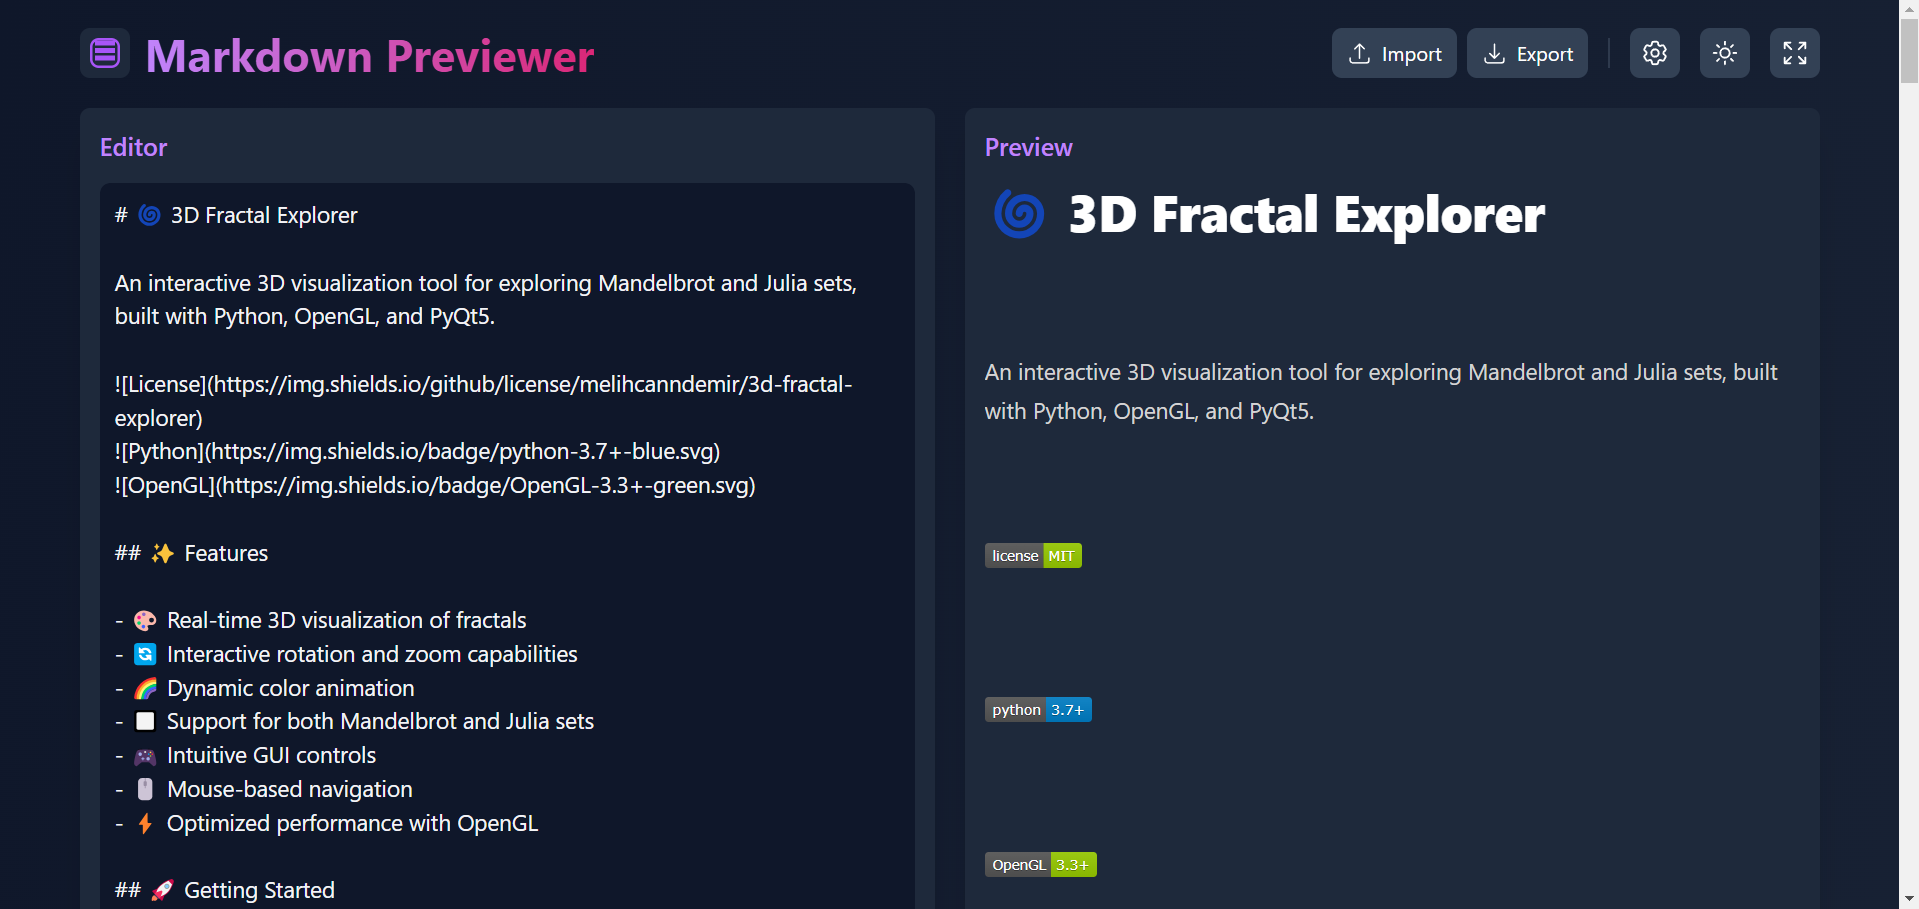
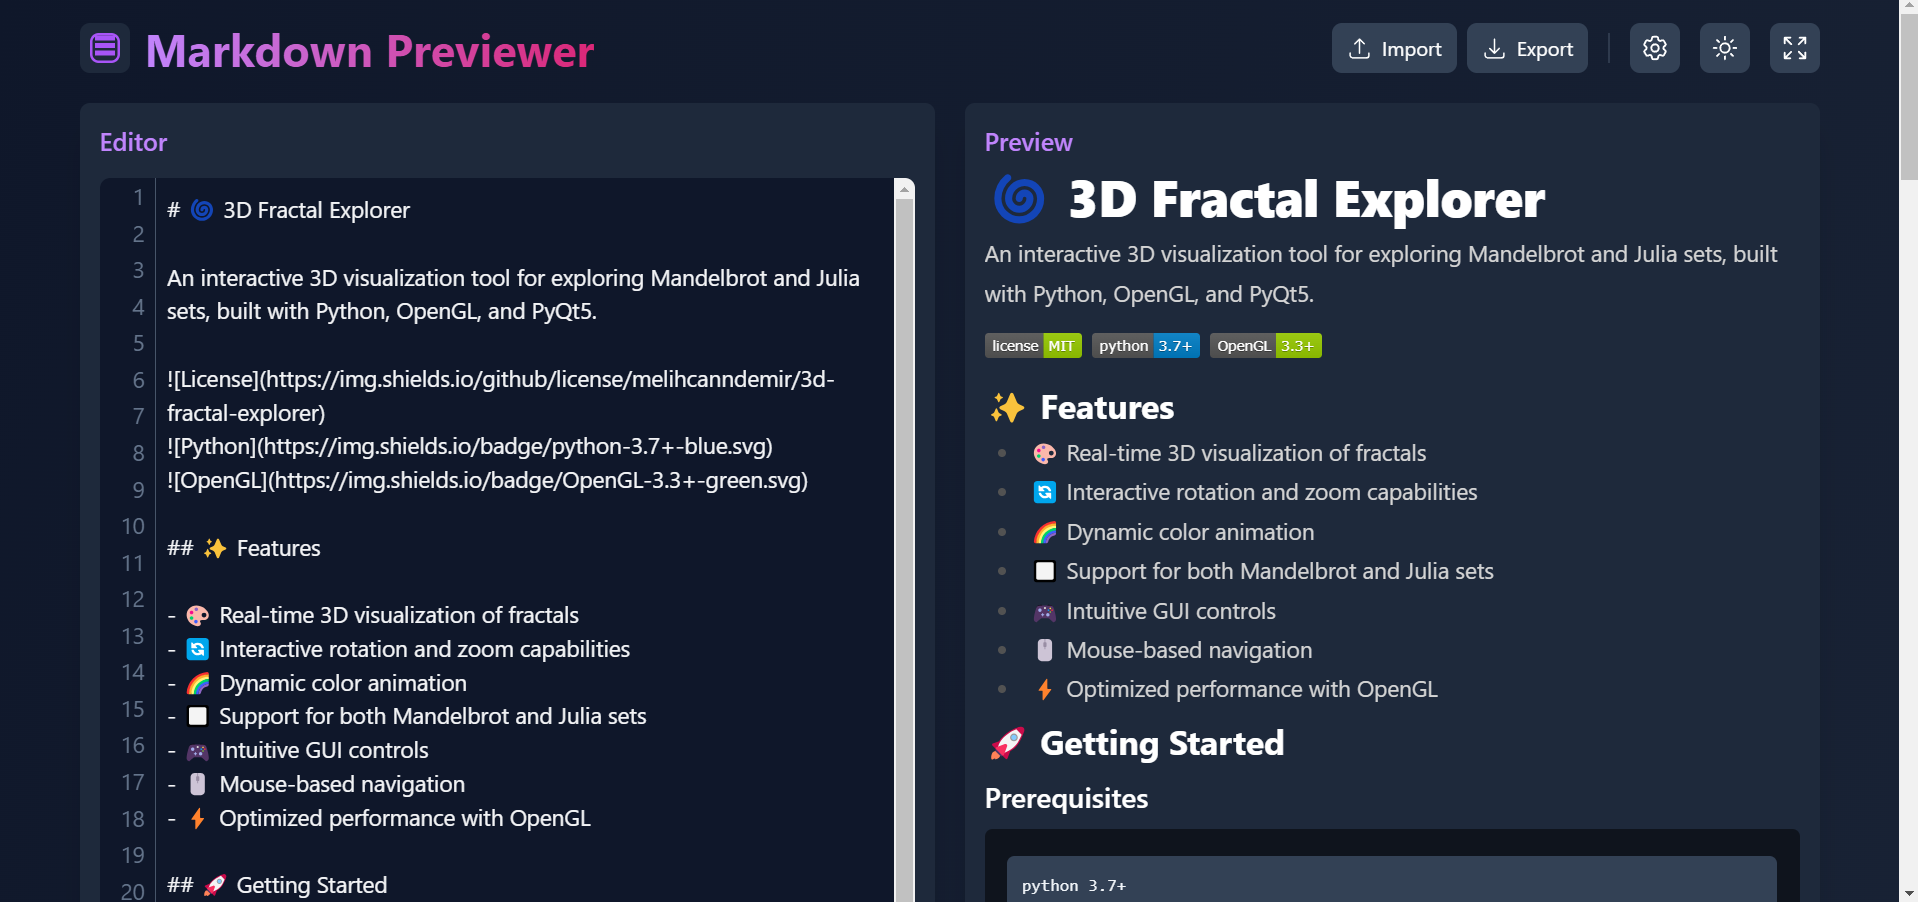
refactor(markdown): optimize preview spacing and improve badge alignments
- Reduce unnecessary margins and paddings in markdown preview
- Fix badge alignments to display inline like GitHub
- Add flex layout for elements containing images
- Improve overall spacing consistency

diff --git a/src/components/MarkdownPreview.jsx b/src/components/MarkdownPreview.jsx
@@ -7,42 +7,95 @@ function MarkdownPreview({ markdown, isDark, settings }) {
   return (
     <div
       className={`
-        rounded-lg
+        rounded-lg h-full
         ${isDark ? "bg-slate-800" : "bg-white border border-slate-200"}
-        p-4 shadow-xl
-        // Burada da overflow-auto ekleyebilirsin, istersen
+        p-4 shadow-xl flex flex-col
       `}
     >
       <h2
         className={`
-          text-xl font-semibold mb-4
+          text-xl font-semibold mb-2
           ${isDark ? "text-purple-400" : "text-purple-600"}
+          flex-shrink-0
         `}
       >
         Preview
       </h2>
 
-      {/* İçerik kapsayıcısı */}
       <div
         className={`
           prose
           max-w-none
+          flex-grow
+          overflow-auto
           ${isDark ? "prose-invert" : ""}
           ${PREVIEW_STYLES[settings.previewStyle]}
-          whitespace-pre-wrap
-          // İçerik uzayabilsin, kaydırılabilsin
-          overflow-auto
+          [&>*:first-child]:mt-0
+          [&>*:last-child]:mb-0
+          [&_p]:my-1
+          [&_h1]:mt-3 [&_h1]:mb-2
+          [&_h2]:mt-2 [&_h2]:mb-1
+          [&_h3]:mt-2 [&_h3]:mb-1
+          [&_ul]:my-1
+          [&_ol]:my-1
+          [&_li]:my-0
+          [&_pre]:my-2
+          [&_blockquote]:my-2
+          [&_table]:my-2
+          [&_hr]:my-2
+          [&_dl]:my-1
+          [&_p_img]:my-2
+          prose-headings:pb-0
+          prose-p:mb-1
+          prose-li:mt-0 prose-li:mb-0
+          prose-blockquote:my-2
+          prose-hr:my-2
+          prose-table:my-2
+          prose-pre:my-2
+          prose-code:my-0
+          [&_p:has(img)]:inline-flex
+          [&_p:has(img)]:gap-2
+          [&_p:has(img)]:flex-wrap
         `}
         style={{
           fontSize: FONT_SIZES[settings.fontSize],
-          // Çok büyük içeriklerde kısmen ekrana sığması için maxHeight kullanabilirsin
-          // maxHeight: "80vh"
         }}
       >
         <ReactMarkdown
           remarkPlugins={[remarkGfm]}
           components={{
-            // Kod bloklarına özel bir render ekliyoruz
+            // Başlıklar için özel bileşen
+            h1: ({ node, ...props }) => (
+              <h1 className="mt-3 mb-2" {...props} />
+            ),
+            h2: ({ node, ...props }) => (
+              <h2 className="mt-2 mb-1" {...props} />
+            ),
+            h3: ({ node, ...props }) => (
+              <h3 className="mt-2 mb-1" {...props} />
+            ),
+            // Paragraflar için özel bileşen
+            p: ({ node, children, ...props }) => {
+              // Eğer içerisinde img varsa
+              const hasImage = node?.children?.some(child => child.type === 'image');
+              return (
+                <p className={`my-1 ${hasImage ? 'inline-flex gap-2 flex-wrap' : ''}`} {...props}>
+                  {children}
+                </p>
+              );
+            },
+            // Listeler için özel bileşen
+            ul: ({ node, ...props }) => (
+              <ul className="my-1" {...props} />
+            ),
+            ol: ({ node, ...props }) => (
+              <ol className="my-1" {...props} />
+            ),
+            // Liste öğeleri için özel bileşen
+            li: ({ node, ...props }) => (
+              <li className="my-0" {...props} />
+            ),
+            // Kod blokları için özel bileşen
             code({ inline, className, children, ...props }) {
               return inline ? (
                 <code
@@ -53,19 +106,25 @@ function MarkdownPreview({ markdown, isDark, settings }) {
                 </code>
               ) : (
                 <pre
-                  className={`
-                    bg-slate-700
-                    text-slate-100
-                    p-3
-                    rounded-md
-                    overflow-auto
-                  `}
+                  className="bg-slate-700 text-slate-100 p-3 rounded-md overflow-auto my-2"
                   {...props}
                 >
                   <code className="whitespace-pre">{children}</code>
                 </pre>
               );
             },
+            // Alıntılar için özel bileşen
+            blockquote: ({ node, ...props }) => (
+              <blockquote className="my-2" {...props} />
+            ),
+            // Tablolar için özel bileşen
+            table: ({ node, ...props }) => (
+              <table className="my-2" {...props} />
+            ),
+            // Yatay çizgi için özel bileşen
+            hr: ({ node, ...props }) => (
+              <hr className="my-2" {...props} />
+            ),
           }}
         >
           {markdown}
